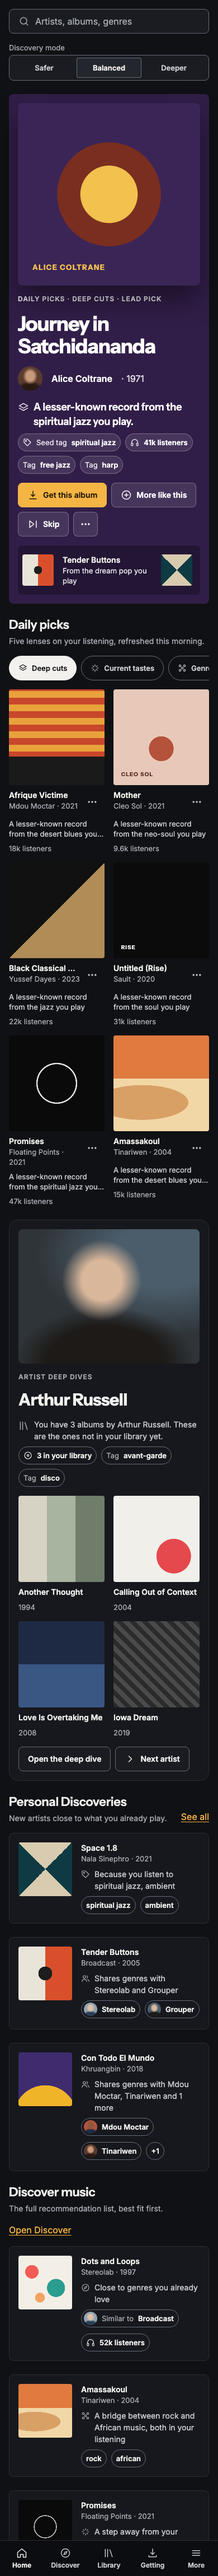
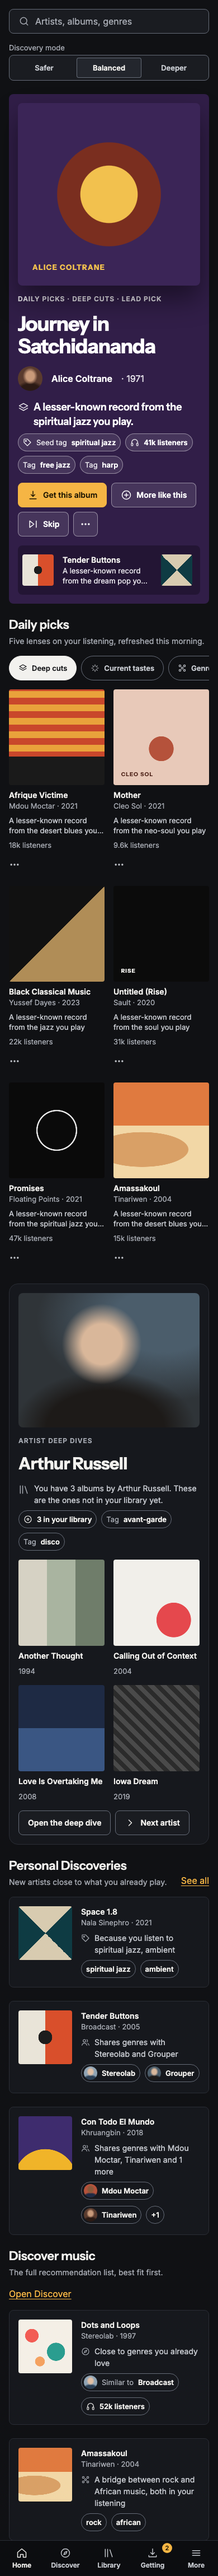
docs: Listening Room review fixes
Sample the hero cover from a hidden CORS image so the visible cover never fails
to load; raise the hero control edge to 3:1 and check it; align mockup reason
lines with the reason table and add the short forms; draw and spec the menu,
phone sheet, toast, badge and skip link; keep grid titles readable; 35 icons.

Claude-Session: https://claude.ai/code/session_012ogRLf7TLGJauRP1g8cnBt

diff --git a/docs/design/listening-room/pages/home.html b/docs/design/listening-room/pages/home.html
@@ -48,6 +48,7 @@
   <symbol id="lr-menu" viewBox="0 0 24 24" fill="none" stroke="currentColor" stroke-width="1.75" stroke-linecap="round" stroke-linejoin="round"><path d="M4 7h16M4 12h16M4 17h16"/></symbol>
 </svg>
 <!--/sprite-->
+<a class="lr-skip" href="#content">Skip to content</a>
 <div class="lr-shell">
 
   <nav class="lr-rail" aria-label="Main">
@@ -73,7 +74,7 @@
     </section>
   </nav>
 
-  <main class="lr-main">
+  <main class="lr-main" id="content">
     <div class="lr-column">
 
       <header class="lr-topbar">
@@ -113,10 +114,10 @@
         </div>
         <aside class="lr-upnext" aria-label="Up next in Deep cuts">
           <p class="lr-eyebrow">Up next in Deep cuts</p>
-          <a href="#"><div class="lr-cover art-broadcast"></div><div style="min-width: 0;"><p class="lr-card-title">Tender Buttons</p><p class="lr-reason-line">From the dream pop you play</p></div></a>
-          <a href="#"><div class="lr-cover art-nala"></div><div style="min-width: 0;"><p class="lr-card-title">Space 1.8</p><p class="lr-reason-line">From the spiritual jazz you play</p></div></a>
-          <a href="#"><div class="lr-cover art-grouper"></div><div style="min-width: 0;"><p class="lr-card-title">Ruins</p><p class="lr-reason-line">From the ambient you play</p></div></a>
-          <a href="#"><div class="lr-cover art-stereo"></div><div style="min-width: 0;"><p class="lr-card-title">Dots and Loops</p><p class="lr-reason-line">From the krautrock you play</p></div></a>
+          <a href="#"><div class="lr-cover art-broadcast"></div><div style="min-width: 0;"><p class="lr-card-title">Tender Buttons</p><p class="lr-reason-line">A lesser-known record from the dream pop you play</p></div></a>
+          <a href="#"><div class="lr-cover art-nala"></div><div style="min-width: 0;"><p class="lr-card-title">Space 1.8</p><p class="lr-reason-line">A lesser-known record from the spiritual jazz you play</p></div></a>
+          <a href="#"><div class="lr-cover art-grouper"></div><div style="min-width: 0;"><p class="lr-card-title">Ruins</p><p class="lr-reason-line">A lesser-known record from the ambient you play</p></div></a>
+          <a href="#"><div class="lr-cover art-stereo"></div><div style="min-width: 0;"><p class="lr-card-title">Dots and Loops</p><p class="lr-reason-line">A lesser-known record from the krautrock you play</p></div></a>
         </aside>
       </section>
 
@@ -133,12 +134,12 @@
           </div>
         </div>
         <div class="lr-grid" role="tabpanel">
-          <article class="lr-card"><div class="lr-cover art-mdou"></div><div class="lr-card-row"><div class="lr-card-text"><p class="lr-card-title"><a href="#">Afrique Victime</a></p><p class="lr-meta">Mdou Moctar · 2021</p></div><div class="lr-card-tools"><button type="button" class="lr-btn lr-btn-icon lr-btn-quiet lr-card-get" aria-label="Get Afrique Victime"><svg class="lr-icon"><use href="#lr-get"/></svg></button><button type="button" class="lr-btn lr-btn-icon lr-btn-quiet" aria-label="More actions for Afrique Victime"><svg class="lr-icon"><use href="#lr-more"/></svg></button></div></div><p class="lr-reason-line">A lesser-known record from the desert blues you play</p><p class="lr-meta">18k listeners</p></article>
-          <article class="lr-card"><div class="lr-cover art-cleo"><span class="art-mark" style="color: #4A1E14;">CLEO SOL</span></div><div class="lr-card-row"><div class="lr-card-text"><p class="lr-card-title"><a href="#">Mother</a></p><p class="lr-meta">Cleo Sol · 2021</p></div><div class="lr-card-tools"><button type="button" class="lr-btn lr-btn-icon lr-btn-quiet lr-card-get" aria-label="Get Mother"><svg class="lr-icon"><use href="#lr-get"/></svg></button><button type="button" class="lr-btn lr-btn-icon lr-btn-quiet" aria-label="More actions for Mother"><svg class="lr-icon"><use href="#lr-more"/></svg></button></div></div><p class="lr-reason-line">A lesser-known record from the neo-soul you play</p><p class="lr-meta">9.6k listeners</p></article>
-          <article class="lr-card"><div class="lr-cover art-yussef"></div><div class="lr-card-row"><div class="lr-card-text"><p class="lr-card-title"><a href="#">Black Classical Music</a></p><p class="lr-meta">Yussef Dayes · 2023</p></div><div class="lr-card-tools"><button type="button" class="lr-btn lr-btn-icon lr-btn-quiet lr-card-get" aria-label="Get Black Classical Music"><svg class="lr-icon"><use href="#lr-get"/></svg></button><button type="button" class="lr-btn lr-btn-icon lr-btn-quiet" aria-label="More actions for Black Classical Music"><svg class="lr-icon"><use href="#lr-more"/></svg></button></div></div><p class="lr-reason-line">A lesser-known record from the jazz you play</p><p class="lr-meta">22k listeners</p></article>
-          <article class="lr-card"><div class="lr-cover art-sault"><span class="art-mark" style="color: #F2F1EE;">RISE</span></div><div class="lr-card-row"><div class="lr-card-text"><p class="lr-card-title"><a href="#">Untitled (Rise)</a></p><p class="lr-meta">Sault · 2020</p></div><div class="lr-card-tools"><button type="button" class="lr-btn lr-btn-icon lr-btn-quiet lr-card-get" aria-label="Get Untitled (Rise)"><svg class="lr-icon"><use href="#lr-get"/></svg></button><button type="button" class="lr-btn lr-btn-icon lr-btn-quiet" aria-label="More actions for Untitled (Rise)"><svg class="lr-icon"><use href="#lr-more"/></svg></button></div></div><p class="lr-reason-line">A lesser-known record from the soul you play</p><p class="lr-meta">31k listeners</p></article>
-          <article class="lr-card"><div class="lr-cover art-floating"></div><div class="lr-card-row"><div class="lr-card-text"><p class="lr-card-title"><a href="#">Promises</a></p><p class="lr-meta">Floating Points · 2021</p></div><div class="lr-card-tools"><button type="button" class="lr-btn lr-btn-icon lr-btn-quiet lr-card-get" aria-label="Get Promises"><svg class="lr-icon"><use href="#lr-get"/></svg></button><button type="button" class="lr-btn lr-btn-icon lr-btn-quiet" aria-label="More actions for Promises"><svg class="lr-icon"><use href="#lr-more"/></svg></button></div></div><p class="lr-reason-line">A lesser-known record from the spiritual jazz you play</p><p class="lr-meta">47k listeners</p></article>
-          <article class="lr-card"><div class="lr-cover art-tina"></div><div class="lr-card-row"><div class="lr-card-text"><p class="lr-card-title"><a href="#">Amassakoul</a></p><p class="lr-meta">Tinariwen · 2004</p></div><div class="lr-card-tools"><button type="button" class="lr-btn lr-btn-icon lr-btn-quiet lr-card-get" aria-label="Get Amassakoul"><svg class="lr-icon"><use href="#lr-get"/></svg></button><button type="button" class="lr-btn lr-btn-icon lr-btn-quiet" aria-label="More actions for Amassakoul"><svg class="lr-icon"><use href="#lr-more"/></svg></button></div></div><p class="lr-reason-line">A lesser-known record from the desert blues you play</p><p class="lr-meta">15k listeners</p></article>
+          <article class="lr-card"><div class="lr-cover art-mdou"></div><div class="lr-card-row"><div class="lr-card-text"><p class="lr-card-title"><a href="#">Afrique Victime</a></p><p class="lr-meta">Mdou Moctar · 2021</p></div></div><p class="lr-reason-line">A lesser-known record from the desert blues you play</p><p class="lr-meta">18k listeners</p><div class="lr-card-tools"><button type="button" class="lr-btn lr-btn-icon lr-btn-quiet lr-card-get" aria-label="Get Afrique Victime"><svg class="lr-icon"><use href="#lr-get"/></svg></button><button type="button" class="lr-btn lr-btn-icon lr-btn-quiet" aria-label="More actions for Afrique Victime"><svg class="lr-icon"><use href="#lr-more"/></svg></button></div></article>
+          <article class="lr-card"><div class="lr-cover art-cleo"><span class="art-mark" style="color: #4A1E14;">CLEO SOL</span></div><div class="lr-card-row"><div class="lr-card-text"><p class="lr-card-title"><a href="#">Mother</a></p><p class="lr-meta">Cleo Sol · 2021</p></div></div><p class="lr-reason-line">A lesser-known record from the neo-soul you play</p><p class="lr-meta">9.6k listeners</p><div class="lr-card-tools"><button type="button" class="lr-btn lr-btn-icon lr-btn-quiet lr-card-get" aria-label="Get Mother"><svg class="lr-icon"><use href="#lr-get"/></svg></button><button type="button" class="lr-btn lr-btn-icon lr-btn-quiet" aria-label="More actions for Mother"><svg class="lr-icon"><use href="#lr-more"/></svg></button></div></article>
+          <article class="lr-card"><div class="lr-cover art-yussef"></div><div class="lr-card-row"><div class="lr-card-text"><p class="lr-card-title"><a href="#">Black Classical Music</a></p><p class="lr-meta">Yussef Dayes · 2023</p></div></div><p class="lr-reason-line">A lesser-known record from the jazz you play</p><p class="lr-meta">22k listeners</p><div class="lr-card-tools"><button type="button" class="lr-btn lr-btn-icon lr-btn-quiet lr-card-get" aria-label="Get Black Classical Music"><svg class="lr-icon"><use href="#lr-get"/></svg></button><button type="button" class="lr-btn lr-btn-icon lr-btn-quiet" aria-label="More actions for Black Classical Music"><svg class="lr-icon"><use href="#lr-more"/></svg></button></div></article>
+          <article class="lr-card"><div class="lr-cover art-sault"><span class="art-mark" style="color: #F2F1EE;">RISE</span></div><div class="lr-card-row"><div class="lr-card-text"><p class="lr-card-title"><a href="#">Untitled (Rise)</a></p><p class="lr-meta">Sault · 2020</p></div></div><p class="lr-reason-line">A lesser-known record from the soul you play</p><p class="lr-meta">31k listeners</p><div class="lr-card-tools"><button type="button" class="lr-btn lr-btn-icon lr-btn-quiet lr-card-get" aria-label="Get Untitled (Rise)"><svg class="lr-icon"><use href="#lr-get"/></svg></button><button type="button" class="lr-btn lr-btn-icon lr-btn-quiet" aria-label="More actions for Untitled (Rise)"><svg class="lr-icon"><use href="#lr-more"/></svg></button></div></article>
+          <article class="lr-card"><div class="lr-cover art-floating"></div><div class="lr-card-row"><div class="lr-card-text"><p class="lr-card-title"><a href="#">Promises</a></p><p class="lr-meta">Floating Points · 2021</p></div></div><p class="lr-reason-line">A lesser-known record from the spiritual jazz you play</p><p class="lr-meta">47k listeners</p><div class="lr-card-tools"><button type="button" class="lr-btn lr-btn-icon lr-btn-quiet lr-card-get" aria-label="Get Promises"><svg class="lr-icon"><use href="#lr-get"/></svg></button><button type="button" class="lr-btn lr-btn-icon lr-btn-quiet" aria-label="More actions for Promises"><svg class="lr-icon"><use href="#lr-more"/></svg></button></div></article>
+          <article class="lr-card"><div class="lr-cover art-tina"></div><div class="lr-card-row"><div class="lr-card-text"><p class="lr-card-title"><a href="#">Amassakoul</a></p><p class="lr-meta">Tinariwen · 2004</p></div></div><p class="lr-reason-line">A lesser-known record from the desert blues you play</p><p class="lr-meta">15k listeners</p><div class="lr-card-tools"><button type="button" class="lr-btn lr-btn-icon lr-btn-quiet lr-card-get" aria-label="Get Amassakoul"><svg class="lr-icon"><use href="#lr-get"/></svg></button><button type="button" class="lr-btn lr-btn-icon lr-btn-quiet" aria-label="More actions for Amassakoul"><svg class="lr-icon"><use href="#lr-more"/></svg></button></div></article>
         </div>
       </section>
 
@@ -209,9 +210,9 @@
         <section class="lr-section" aria-labelledby="classics">
           <div><h2 class="lr-section-title" id="classics">Add to your collection</h2><p class="lr-section-sub">Well-known albums by artists you already keep.</p></div>
           <div class="lr-mini-grid">
-            <article class="lr-card"><div class="lr-cover art-talk"></div><p class="lr-card-title"><a href="#">Spirit of Eden</a></p><p class="lr-meta">Talk Talk · 1988</p><p class="lr-reason-line">You have 2 albums by this artist</p></article>
-            <article class="lr-card"><div class="lr-cover art-can"></div><p class="lr-card-title"><a href="#">Ege Bamyasi</a></p><p class="lr-meta">Can · 1972</p><p class="lr-reason-line">You have 4 albums by this artist</p></article>
-            <article class="lr-card"><div class="lr-cover art-fela"></div><p class="lr-card-title"><a href="#">Zombie</a></p><p class="lr-meta">Fela Kuti · 1976</p><p class="lr-reason-line">You have 1 album by this artist</p></article>
+            <article class="lr-card"><div class="lr-cover art-talk"></div><p class="lr-card-title"><a href="#">Spirit of Eden</a></p><p class="lr-meta">Talk Talk · 1988</p><p class="lr-reason-line">A well-known album; you have 2 albums by this artist</p></article>
+            <article class="lr-card"><div class="lr-cover art-can"></div><p class="lr-card-title"><a href="#">Ege Bamyasi</a></p><p class="lr-meta">Can · 1972</p><p class="lr-reason-line">A well-known album; you have 4 albums by this artist</p></article>
+            <article class="lr-card"><div class="lr-cover art-fela"></div><p class="lr-card-title"><a href="#">Zombie</a></p><p class="lr-meta">Fela Kuti · 1976</p><p class="lr-reason-line">A well-known album; you have 1 album by this artist</p></article>
           </div>
         </section>
         <section class="lr-section" aria-labelledby="fresh">
@@ -248,7 +249,7 @@
     <a href="#" aria-current="page"><svg class="lr-icon"><use href="#lr-home"/></svg>Home</a>
     <a href="#"><svg class="lr-icon"><use href="#lr-discover"/></svg>Discover</a>
     <a href="#"><svg class="lr-icon"><use href="#lr-library"/></svg>Library</a>
-    <a href="#"><svg class="lr-icon"><use href="#lr-acquisitions"/></svg>Getting</a>
+    <a href="#" class="lr-badge-host" aria-label="Getting, 2 active"><svg class="lr-icon"><use href="#lr-acquisitions"/></svg>Getting<span class="lr-badge" aria-hidden="true">2</span></a>
     <a href="#"><svg class="lr-icon"><use href="#lr-menu"/></svg>More</a>
   </nav>
 </div>

diff --git a/docs/design/listening-room/components.css b/docs/design/listening-room/components.css
@@ -109,11 +109,11 @@ a.lr-chip:hover { background: var(--lr-raised); color: var(--lr-text); }
 .lr-cover { width: 100%; aspect-ratio: 1; border-radius: var(--lr-radius-cover); position: relative; overflow: hidden; display: block; }
 .lr-card-row { display: flex; gap: var(--lr-space-8); align-items: start; }
 .lr-card-text { flex: 1; min-width: 0; }
-.lr-card-title { font: 600 14px/20px var(--lr-font-text); color: var(--lr-text); overflow: hidden; text-overflow: ellipsis; white-space: nowrap; }
+.lr-card-title { font: 600 14px/20px var(--lr-font-text); color: var(--lr-text); display: -webkit-box; -webkit-line-clamp: 2; -webkit-box-orient: vertical; overflow: hidden; }
 .lr-card-title a { color: inherit; text-decoration: none; }
 .lr-card-title a:hover { text-decoration: underline; }
 .lr-meta { font: 400 13px/18px var(--lr-font-text); color: var(--lr-text-muted); }
-.lr-card-tools { display: flex; gap: var(--lr-space-4); margin-left: calc(var(--lr-space-8) * -1); }
+.lr-card-tools { display: flex; gap: var(--lr-space-4); margin: calc(var(--lr-space-4) * -1) 0 0 calc(var(--lr-space-16) * -1 + 4px); }
 
 /* 5.9 Row card (Personal Discoveries) */
 .lr-rows { display: grid; grid-template-columns: repeat(auto-fill, minmax(320px, 1fr)); gap: var(--lr-space-24); }
@@ -198,3 +198,40 @@ a.lr-chip:hover { background: var(--lr-raised); color: var(--lr-text); }
   .lr-tab { flex: none; }
   .lr-card-get { display: none; }
 }
+
+/* 5.13 Overlays and small parts ------------------------------------------------------------------ */
+/* Skip link: first focusable element, hidden until focused. */
+.lr-skip { position: absolute; left: var(--lr-space-16); top: var(--lr-space-16); z-index: 30; transform: translateY(-200%);
+  min-height: var(--lr-target); padding: 0 var(--lr-space-16); display: inline-flex; align-items: center; border-radius: var(--lr-radius-control);
+  background: var(--lr-accent); color: var(--lr-on-accent); font: 600 14px/16px var(--lr-font-text); text-decoration: none; }
+.lr-skip:focus { transform: none; }
+
+/* "…" menu: opens below its button, aligned to its right edge; flips above when there is no room. */
+.lr-menu { min-width: 240px; padding: var(--lr-space-8); border-radius: var(--lr-radius-control); background: var(--lr-raised);
+  border: 1px solid var(--lr-edge-strong); box-shadow: var(--lr-shadow-menu); display: flex; flex-direction: column; list-style: none; margin: 0; }
+.lr-menu-item { display: flex; align-items: center; gap: var(--lr-space-16); width: 100%; min-height: var(--lr-target); padding: 0 var(--lr-space-16);
+  border: 0; border-radius: 4px; background: transparent; color: var(--lr-text); font: 400 14px/20px var(--lr-font-text); text-align: left; cursor: pointer; }
+.lr-menu-item:hover, .lr-menu-item:focus-visible { background: var(--lr-surface-2); }
+.lr-menu-item .lr-icon { color: var(--lr-text-muted); }
+.lr-menu-sep { height: 1px; margin: var(--lr-space-4) 0; background: var(--lr-edge); }
+.lr-menu-danger { color: var(--lr-danger); }
+
+/* Phone bottom sheet (More tab, and the "…" menu on phones). */
+.lr-scrim { position: fixed; inset: 0; background: var(--lr-scrim); z-index: 20; }
+.lr-sheet { position: fixed; left: 0; right: 0; bottom: 0; z-index: 21; padding: var(--lr-space-8) var(--lr-space-16) var(--lr-space-32);
+  border-radius: var(--lr-radius-panel) var(--lr-radius-panel) 0 0; background: var(--lr-raised); border-top: 1px solid var(--lr-edge-strong);
+  transition: transform var(--lr-motion-sheet); }
+.lr-sheet-handle { width: 32px; height: 4px; border-radius: 2px; background: var(--lr-edge-strong); margin: 0 auto var(--lr-space-16); }
+.lr-sheet-title { font: 600 16px/24px var(--lr-font-text); margin-bottom: var(--lr-space-8); }
+
+/* Toast: bottom-left on desktop, above the tab bar on phones; 6 s, held while hovered or focused. */
+.lr-toast { position: fixed; left: calc(var(--lr-rail-width) + var(--lr-space-24)); bottom: var(--lr-space-24); z-index: 25; max-width: 420px;
+  display: flex; align-items: center; gap: var(--lr-space-16); padding: var(--lr-space-16); border-radius: var(--lr-radius-control);
+  background: var(--lr-raised); border: 1px solid var(--lr-edge-strong); box-shadow: var(--lr-shadow-menu); color: var(--lr-text); font: 400 14px/21px var(--lr-font-text); }
+@media (max-width: 1079px) { .lr-toast { left: calc(72px + var(--lr-space-16)); } }
+@media (max-width: 719px) { .lr-toast { left: var(--lr-space-16); right: var(--lr-space-16); bottom: calc(var(--lr-tabbar-height) + var(--lr-space-16)); max-width: none; } }
+
+/* Badge on the Acquisitions item (icon rail) and the Getting tab (phone): count of active acquisitions. */
+.lr-badge-host { position: relative; }
+.lr-badge { position: absolute; top: 4px; right: 4px; min-width: 18px; height: 18px; padding: 0 4px; border-radius: 9px; background: var(--lr-accent);
+  color: var(--lr-on-accent); font: 600 11px/18px var(--lr-font-text); text-align: center; }

diff --git a/docs/design/listening-room/pages/states.html b/docs/design/listening-room/pages/states.html
@@ -57,7 +57,7 @@
 <div class="sheet">
   <header>
     <p class="lr-eyebrow">Listening Room · states</p>
-    <h1 class="lr-type-page-title" style="margin-top: 8px;">Loading, empty, off, failed, and Get</h1>
+    <h1 class="lr-type-page-title" style="margin-top: 8px;">States, menus, sheets and toasts</h1>
     <p class="lr-section-sub" style="max-width: 75ch;">Each Home section loads and fails on its own; one section's error never blanks the page. Messages say what happened and what to do, in words.</p>
   </header>
 
@@ -114,6 +114,51 @@
       <div class="lr-note" role="status"><svg class="lr-icon"><use href="#lr-check"/></svg><div><p class="lr-note-title">Skipped Afrique Victime</p><p class="lr-note-text">It will not come back in this list.</p></div></div>
       <div class="lr-note" role="status"><svg class="lr-icon"><use href="#lr-lean-more"/></svg><div><p class="lr-note-title">More like Mdou Moctar</p><p class="lr-note-text">Counts the next time the lists are built. Change it in <a href="#">Settings</a>.</p></div></div>
       <p class="lr-meta">A toast in the bottom-left on desktop, above the tab bar on phones, 6 s, and it stays while focused or hovered.</p>
+    </section>
+  </div>
+
+
+  <div class="three">
+    <section class="lr-panel" aria-label="Album menu">
+      <p class="lr-eyebrow">"…" menu (desktop)</p>
+      <ul class="lr-menu" style="position: static;">
+        <li><button type="button" class="lr-menu-item"><svg class="lr-icon"><use href="#lr-get"/></svg>Get this album</button></li>
+        <li><button type="button" class="lr-menu-item"><svg class="lr-icon"><use href="#lr-saved"/></svg>Save</button></li>
+        <li><button type="button" class="lr-menu-item"><svg class="lr-icon"><use href="#lr-lean-more"/></svg>More like this</button></li>
+        <li><button type="button" class="lr-menu-item"><svg class="lr-icon"><use href="#lr-lean-less"/></svg>Less like this</button></li>
+        <li><button type="button" class="lr-menu-item"><svg class="lr-icon"><use href="#lr-external"/></svg>Find on music services</button></li>
+        <li class="lr-menu-sep" role="separator"></li>
+        <li><button type="button" class="lr-menu-item lr-menu-danger"><svg class="lr-icon"><use href="#lr-block"/></svg>Not this artist</button></li>
+        <li><button type="button" class="lr-menu-item lr-menu-danger"><svg class="lr-icon"><use href="#lr-tag"/></svg>Block this genre</button></li>
+      </ul>
+      <p class="lr-meta">role="menu" on the list, role="menuitem" on each button; arrow keys move, Escape closes and returns focus to "…". Get is in the menu on phones only. Destructive items ask to confirm with a sheet or dialog that names the artist or genre.</p>
+    </section>
+
+    <section class="lr-panel" aria-label="More sheet">
+      <p class="lr-eyebrow">Phone · More sheet</p>
+      <div style="position: relative; height: 360px; border-radius: 8px; overflow: hidden; background: var(--lr-bg); border: 1px solid var(--lr-edge);">
+        <div class="lr-scrim" style="position: absolute;"></div>
+        <div class="lr-sheet" style="position: absolute;" role="dialog" aria-label="More">
+          <div class="lr-sheet-handle"></div>
+          <p class="lr-sheet-title">More</p>
+          <a class="lr-nav" href="#"><svg class="lr-icon"><use href="#lr-saved"/></svg>Saved</a>
+          <a class="lr-nav" href="#"><svg class="lr-icon"><use href="#lr-paths"/></svg>Paths</a>
+          <a class="lr-nav" href="#"><svg class="lr-icon"><use href="#lr-radio"/></svg>Radio</a>
+          <a class="lr-nav" href="#"><svg class="lr-icon"><use href="#lr-settings"/></svg>Settings</a>
+        </div>
+      </div>
+      <p class="lr-meta">Rises in 200 ms (0 under reduced motion). Focus moves into the sheet and is kept there; Escape, the scrim or a downward drag closes it.</p>
+    </section>
+
+    <section class="lr-panel" aria-label="Toast, badge, skip link">
+      <p class="lr-eyebrow">Toast · badge · skip link</p>
+      <div class="lr-toast" role="status" style="position: static; max-width: none;"><svg class="lr-icon"><use href="#lr-check"/></svg><span>Requested Afrique Victime. <a href="#">Follow it</a></span></div>
+      <div style="display: flex; gap: 24px; align-items: center;">
+        <span class="lr-badge-host lr-nav" style="flex: none; width: 44px; height: 44px; padding: 0; justify-content: center; background: var(--lr-rail);"><svg class="lr-icon"><use href="#lr-acquisitions"/></svg><span class="lr-badge" aria-hidden="true">2</span></span>
+        <p class="lr-meta">Icon rail and phone Getting tab: count of active acquisitions; the link's aria-label says "Acquisitions, 2 active".</p>
+      </div>
+      <a class="lr-skip" href="#" style="position: static; transform: none; align-self: start;">Skip to content</a>
+      <p class="lr-meta">The skip link is shown only while focused, top-left.</p>
     </section>
   </div>
 

diff --git a/docs/design/listening-room/tokens.css b/docs/design/listening-room/tokens.css
@@ -30,7 +30,7 @@
   --lr-hero-text-soft: #E4E1E8;
   --lr-hero-eyebrow: #E4E1E8;
   --lr-hero-button-fill: rgba(255,255,255,0.10);
-  --lr-hero-button-edge: rgba(255,255,255,0.28);
+  --lr-hero-button-edge: rgba(255,255,255,0.44);
   --lr-hero-aside-fill: rgba(0,0,0,0.28);
   --lr-space-4: 4px;
   --lr-space-8: 8px;

diff --git a/docs/design/listening-room/_src/check_contrast.py b/docs/design/listening-room/_src/check_contrast.py
@@ -72,22 +72,25 @@ def check_pairs(failures):
 
 
 def check_hero(failures):
-    """Hero text, soft text and button labels pass on every clamped tint, both ends included."""
+    """Hero text, soft text, button labels and control edges pass on every clamped tint, both ends included."""
     hero = TOKENS["hero"]
     samples = [None, (1.0, 1.0, 1.0), (0.0, 0.0, 0.0), (1.0, 1.0, 0.0), (0.0, 1.0, 1.0)]
     samples += [colorsys.hls_to_rgb(h / 360, l / 10, s / 10)
                 for h in range(0, 360, 10) for l in range(0, 11, 2) for s in range(0, 11, 2)]
+    edge_alpha = float(hero["button-edge"].rstrip(")").split(",")[-1])
     worst = (99.0, None)
     for sample in samples:
         panel = hero_tint(sample)
         button = over(1.0, 0.10, panel)
+        edge = over(1.0, edge_alpha, panel)
         aside = over(0.0, 0.28, panel)
         accent = TOKENS["color"]["accent"]["value"]
         checks = [(hero["text"], panel, 4.5), (hero["text-soft"], panel, 4.5), (hero["text"], button, 4.5),
-                  (hero["text-soft"], aside, 4.5), (accent, panel, 3.0)]
+                  (hero["text-soft"], aside, 4.5), (accent, panel, 3.0), (edge, panel, 3.0)]
         for fore, back, minimum in checks:
             got = ratio(fore, back)
-            worst = min(worst, (got, (fore, sample)), key=lambda item: item[0])
+            if minimum >= 4.5:
+                worst = min(worst, (got, (fore, sample)), key=lambda item: item[0])
             if got < minimum:
                 failures.append(f"hero {fore} on tint of {sample}: {got:.2f}")
     print(f"hero: {len(samples)} samples, lowest text ratio {worst[0]:.2f}")

diff --git a/docs/design/listening-room/_src/build.py b/docs/design/listening-room/_src/build.py
@@ -165,7 +165,7 @@ def write_tokens_css():
 RENDERS = {
     "home": [("", 1440, 3000), ("-phone", 390, 4600)],
     "reasons": [("", 1440, 2240)],
-    "states": [("", 1440, 1300)],
+    "states": [("", 1440, 1960)],
 }
 
 

diff --git a/docs/LISTENING_ROOM_WEB.md b/docs/LISTENING_ROOM_WEB.md
@@ -26,14 +26,14 @@ A dark, quiet room built around one album. Home opens on a single **lead pick**:
 | `art.css` | Stand-in covers and artist photos for the mockups only. **Not for the app** |
 | `pages/home.html` + `home.png` (1440) + `home-phone.png` (390) | The Home mockup |
 | `pages/reasons.html` + `.png` | Every reason kind, at the hero and card sizes |
-| `pages/states.html` + `.png` | Loading, empty, off, failed, Get states, feedback toasts, hero tint examples |
-| `icons/*.svg`, `icons/icons.svg` | 36 icons on a 24 grid with a 1.75 stroke, and one `<symbol>` sprite (`#lr-<name>`) |
+| `pages/states.html` + `.png` | Loading, empty, off, failed, Get states, feedback, the "…" menu, the phone More sheet, toast, badge, skip link, hero tint examples |
+| `icons/*.svg`, `icons/icons.svg` | 35 icons on a 24 grid with a 1.75 stroke, and one `<symbol>` sprite (`#lr-<name>`) |
 | `fonts/` | Instrument Sans 600 and 700 (Latin woff2) and the OFL licence |
 | `_src/build.py` | Writes `tokens.css` and the icons, puts the sprite into each page, and renders PNGs with Google Chrome |
 | `_src/check_contrast.py` | Checks every contrast pair, and the hero tint over 1,301 cover colours |
 
 ```sh
-python3 docs/design/listening-room/_src/check_contrast.py   # exit 0: all pass (lowest hero text ratio 6.43)
+python3 docs/design/listening-room/_src/check_contrast.py   # exit 0: all pass (lowest hero text ratio 8.57)
 python3 docs/design/listening-room/_src/build.py            # tokens, icons, every PNG; or: build.py home
 ```
 
@@ -103,7 +103,7 @@ Rules (from `UI_DESIGN_RULES.md`):
 
 ### 3.4 Icons
 
-- 36 icons: one 24px grid, 1.75 stroke, round caps and joins, `currentColor`. They are listed in `_src/build.py` (`ICONS`).
+- 35 icons: one 24px grid, 1.75 stroke, round caps and joins, `currentColor`. They are listed in `_src/build.py` (`ICONS`).
 - Use the sprite with `<svg class="lr-icon" aria-hidden="true"><use href="#lr-get"/></svg>`. Slice L1 puts it into `index.html` once.
 - An icon-only button always has an `aria-label`.
 - **Reason kinds and their icons:**
@@ -162,9 +162,11 @@ function heroTint(img) {                         // img: the loaded lead cover <
 // of 0.01 until relative luminance <= 0.04 (never below 0.06). Then set --lr-hero-tint.
 ```
 
-- **Owned covers** (`/api/owned/artwork/<id>`) are same-origin and always work.
-- **Covers for albums you don't own** come from the URL that `/api/artwork` returns, which is usually a provider's image host. Load them with `crossOrigin="anonymous"`. If the host sends no CORS header, reading the canvas throws, and the panel keeps the fallback `#2A1F33`. Slice L3 records how often that happens; if it happens often, D4 applies.
-- **Contrast stays safe whatever the colour.** The clamp caps the panel's luminance at 0.04, so white text, the soft text `#E4E1E8`, the neutral buttons and the side panel pass 4.5:1 on every possible tint. `check_contrast.py` checks 1,301 colours, both ends included; the lowest ratio is 6.43.
+- **The cover you see is never put at risk by sampling.** With `crossOrigin` set, an `<img>` whose host sends no CORS header fails to load at all. So the visible cover is a normal `<img>` without `crossOrigin`, and sampling uses a second, hidden image.
+- **Owned covers** (`/api/owned/artwork/<id>`) are same-origin, so they are sampled straight from the visible `<img>` after it loads.
+- **Covers for albums you don't own** come from the URL that `/api/artwork` returns, which is usually a provider's image host. They are sampled from a second `const probe = new Image(); probe.crossOrigin = 'anonymous'; probe.src = url;`, which is never put into the page. If `probe` fails to load, or `getImageData` throws, the panel keeps the fallback `#2A1F33`. The visible cover is unaffected either way.
+- **How often it fails.** Most lead picks are not owned, so slice L3 records how often the fallback is used. If it is used often, D4 applies.
+- **Contrast stays safe whatever the colour.** The clamp caps the panel's luminance at 0.04, so white text, the soft text `#E4E1E8` and the neutral buttons' labels pass 4.5:1 on every possible tint, and their edges (`rgba(255,255,255,0.44)`) and the accent pass 3:1. `check_contrast.py` checks 1,301 colours, both ends included; the lowest text ratio is 8.57.
 - **No text sits over the art.** Text never lies on the cover, so no scrim is needed.
 
 ## 5. Components
@@ -180,11 +182,12 @@ Class names are the names in `components.css`. The app may rename them but must 
 | 5.5 | Lead pick: `lr-hero`, `lr-hero-cover`, `lr-upnext` | Three columns: cover, body, Up next. The body runs eyebrow → title → artist (avatar 44) · year → reason block (hero size) → actions |
 | 5.6 | **Reason block:** `lr-reason`, `lr-reason-head`, `lr-evidence`, `lr-chip`, `lr-chip-avatar`, `lr-reason-line` | Three sizes (section 6.3). Chips are links when they lead somewhere (tag → genre page, artist → artist page), plain spans when not |
 | 5.7 | Lens tabs: `lr-tab` | `role="tablist"`, arrow keys move between tabs, and the selected tab is filled `chip-selected` |
-| 5.8 | Album card (grid): `lr-card`, `lr-cover`, `lr-card-tools` | Cover → title (link to the album) and artist · year → Get icon and "…" → reason line (2 lines) → one evidence value as meta. On phones Get moves into "…" |
+| 5.8 | Album card (grid): `lr-card`, `lr-cover`, `lr-card-tools` | Cover → title (link to the album, 2 lines) and artist · year → reason line (2 lines) → one evidence value as meta → Get icon and "…" at the bottom left. On phones Get moves into "…" |
 | 5.9 | Row card: `lr-rowcard` | 96 cover; title, meta, then the reason block at card size with up to 3 chips |
 | 5.10 | Panels: `lr-panel`, `lr-dive`, `lr-path`, `lr-genre`, `lr-station` | The Deep Dive panel's artist photo is at least 400 tall, cropped `object-position: 50% 30%` |
 | 5.11 | Getting now: `lr-getting`, `lr-progress` | `role="progressbar"` with a value. Shown only while an acquisition is active |
 | 5.12 | States: `lr-skel`, `lr-note`, `lr-error-text`, `lr-ok-text` | See `pages/states.html` |
+| 5.13 | Overlays and small parts: `lr-skip`, `lr-menu` (+ `-item`, `-sep`, `-danger`), `lr-scrim` + `lr-sheet`, `lr-toast`, `lr-badge` | Drawn on `pages/states.html`. The menu is `role="menu"` (arrow keys, Escape returns focus); on phones it opens as a sheet. The sheet traps focus and closes on Escape, the scrim or a drag down. The toast is `role="status"`, lasts 6 s and is held while hovered or focused. The badge counts active acquisitions, and the link's `aria-label` says the count |
 
 The "…" menu on an album holds the actions that already exist: Get (on phones), Save, More like this, Less like this, Not this artist, Block this genre, Find on music services. The wording is the same as today. Feedback calls `/api/discovery/feedback` and `/api/discovery/artist-lean` as the current code does.
 
@@ -224,6 +227,12 @@ This is the order today's `reasonLine` in `static/app.js` uses, extended. It is 
 | R10 | Add to your collection | `artist_library_album_count`, `lastfm_listeners` | "A well-known album; you have {n} albums by this artist" | listeners | yes (`classics_candidates.py`) |
 | R11 | Discover music | `discovery_category`, `genre_families`, `recent_profile_families`, `anchor_artist`, `lastfm_listeners` | adjacent "Close to genres you already love"; cross_genre "A bridge between {family} and {family}, both in your listening"; adventurous "A step away from your usual genres"; unclassified "Few genre tags, so the fit is a guess" | "Similar to {anchor_artist}" with photo; listeners | yes. The server's long category sentence is replaced by these |
 | R12 | any | `owned` | "In your library" | none | yes |
+
+**Short forms** (line size, section 6.3; drawn in `pages/home.html`):
+- R5: the same sentences as in the table.
+- R7 on the Deep Dive panel, which covers several albums: "You have {n} albums by {artist}. These are the ones not in your library yet."
+- R9: "New in {year} · {n} albums in your library".
+- R10: the same sentence as in the table.
 
 **Not sent, and what the design does without it:**
 - The seed artist behind a lens pick: nothing. The lens tells you the tag, not the artist, so no lens sentence names an artist.

diff --git a/docs/PROJECT_STATUS.md b/docs/PROJECT_STATUS.md
@@ -6,7 +6,7 @@ Last checked: 2026-11-17. GitHub `main` is authoritative; this update is based o
 
 ## Current state
 
-- **Web client Listening Room design proposed (2026-11-17):** a docs-only PR, opened at the owner's request, with [`docs/LISTENING_ROOM_WEB.md`](LISTENING_ROOM_WEB.md) and [`docs/design/listening-room/`](design/listening-room/). It holds the design system (tokens, components, 36 icons, Instrument Sans) and the Home, reasons and states mockups. Reasons are built only from fields the server sends (R1 to R12). Build slices L0 to L6 are planned. No code.
+- **Web client Listening Room design proposed (2026-11-17):** a docs-only PR, opened at the owner's request, with [`docs/LISTENING_ROOM_WEB.md`](LISTENING_ROOM_WEB.md) and [`docs/design/listening-room/`](design/listening-room/). It holds the design system (tokens, components, 35 icons, Instrument Sans) and the Home, reasons and states mockups. Reasons are built only from fields the server sends (R1 to R12). Build slices L0 to L6 are planned. No code.
   - **Next action:** the owner reviews the design and answers D1 to D4; then L0, the server audit.
 
 - **CI hang fixed and CI trimmed (2026-11-17):** PR [#1179](https://github.com/abucalip/navi-librarian/pull/1179) (squash `4153075b`, head `9112d5b8`, merged 2026-11-17 14:57 UTC; CI queued at merge; not deployed); GitHub confirms `MERGED`. Cause of the slow CI since about 02:30 UTC: after #1160 a failing test left `worker.main()` running in a non-daemon thread, so the unit suite finished but never exited. The suite jobs had no timeout, so each held a runner for 6 hours; 20 of them filled every slot (test fixed in #1174). 65 hung or pre-fix unit-test runs were cancelled by hand. #1179 runs the unit suite once per push (only in `Validate Docker packaging`, owner decision), adds job timeouts (60 / 15 / 10 min) and cancels a pull request's older run on a new push; `main` keeps one run per SHA.

diff --git a/docs/design/listening-room/README.md b/docs/design/listening-room/README.md
@@ -9,7 +9,7 @@ The design system for the web client's **Listening Room** redesign. The spec and
 | [`components.css`](components.css) | Every component's measurements, with the tablet and phone layouts |
 | [`art.css`](art.css) | Stand-in covers and artist photos for the mockups only; not for the app |
 | [`pages/`](pages/) | `home` (1440 and 390), `reasons` (every reason kind), `states`: `.html` to open and measure, `.png` to look at |
-| [`icons/`](icons/) | 36 SVG icons (24 grid, 1.75 stroke) and the sprite `icons.svg` (`#lr-<name>`) |
+| [`icons/`](icons/) | 35 SVG icons (24 grid, 1.75 stroke) and the sprite `icons.svg` (`#lr-<name>`) |
 | [`fonts/`](fonts/) | Instrument Sans 600 and 700, Latin woff2 from Google Fonts, and the OFL licence. Inter 400/600 are already in `static/fonts/` |
 | [`_src/build.py`](_src/build.py) | Writes `tokens.css` and the icons, puts the sprite into each page, and renders PNGs with Google Chrome |
 | [`_src/check_contrast.py`](_src/check_contrast.py) | Checks every contrast pair, and the hero tint over 1,301 cover colours |
